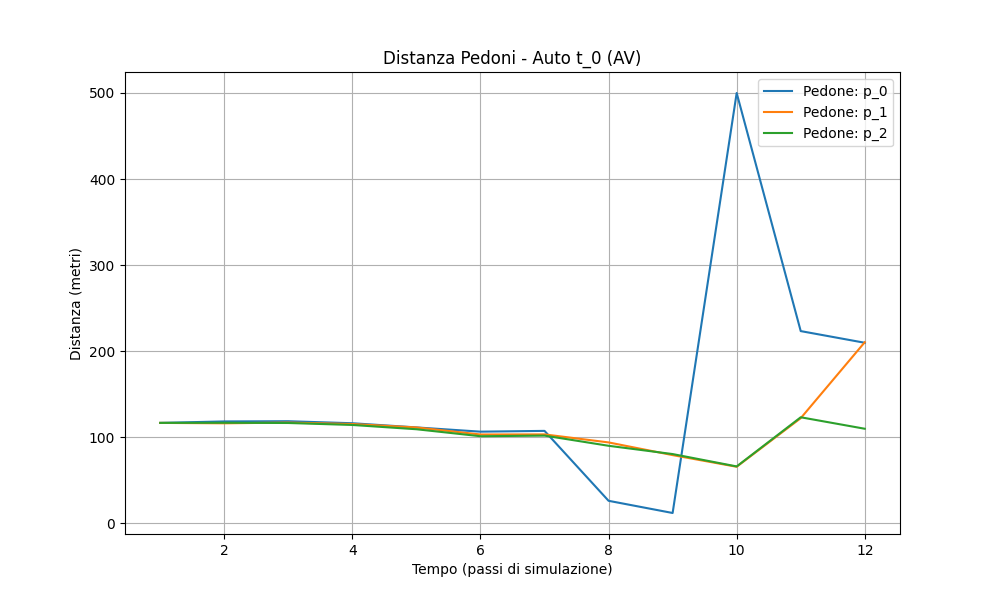
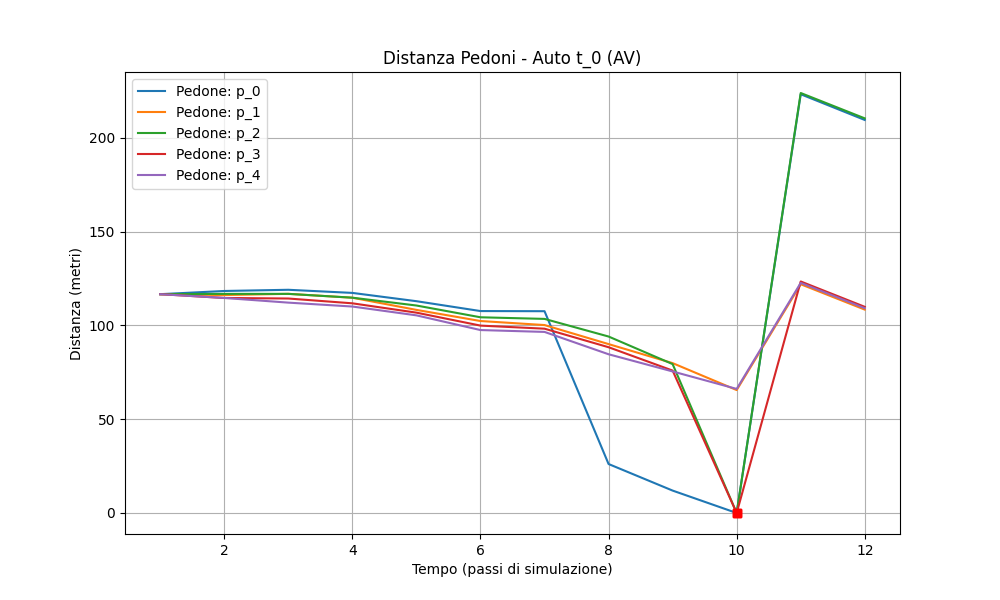
fixed comma underflow for distance

diff --git a/sumo_simulation/sumo_test/test_traciModOnga.py b/sumo_simulation/sumo_test/test_traciModOnga.py
@@ -89,7 +89,7 @@ def plot_distances(distance_data, pair_names, simulation_steps, title, save_dir=
             first_label_added = False
             for idx in close_indices:
                 if not first_label_added:
-                    plt.plot(x_values[idx], distances_extended[idx], 's', color='red', markersize=6, label=f"Distanza < 10m per {person_name}")
+                    plt.plot(x_values[idx], distances_extended[idx], 's', color='red', markersize=6)
                     first_label_added = True
                 else:
                     plt.plot(x_values[idx], distances_extended[idx], 's', color='red', markersize=6)
@@ -174,7 +174,7 @@ def defineScenario(dbase, vehicleID):
     return dbase[vehicleID]['nPedestrian']
 
 
-def calculate_and_store_distance(vehicle_id, person_id, step):
+def calculate_and_store_distance2(vehicle_id, person_id, step):
     """
     Calcola la distanza tra un veicolo e un pedone, la memorizza
     e memorizza un flag se la distanza è inferiore a 10 metri.
@@ -212,6 +212,51 @@ def calculate_and_store_distance(vehicle_id, person_id, step):
         pass # Ignora errori se veicolo/pedone non è più presente
 
 
+def calculate_and_store_distance(vehicle_id, person_id, step):
+    """
+    Calcola la distanza tra un veicolo e un pedone, la memorizza
+    e memorizza un flag se la distanza è inferiore a 10 metri.
+    Gestisce valori di distanza estremamente grandi impostandoli a 0.
+    """
+    global distance_data_t0, distance_data_t1, pair_names, simulation_steps_unique
+
+    try:
+        posV = traci.vehicle.getPosition(vehicle_id)
+        posP = traci.person.getPosition(person_id)
+        distance = traci.simulation.getDistance2D(posV[0], posV[1], posP[0], posP[1], isDriving=True)
+
+        # Controlla se la distanza è un valore estremamente grande (simile a infinito)
+        # o se è maggiore di una soglia ragionevole (es. 1000000000000.0)
+        # Se lo è, impostala a 0 come richiesto.
+        if distance > 1e15 or np.isinf(distance): # Using 1e15 as a very large number threshold
+            distance = 0.0 # Set to 0 if the distance is extremely large or infinite
+
+        is_close = distance < 10.0 # Flag per distanza inferiore a 10 metri
+
+        pair_key = f"{vehicle_id}-{person_id}"
+        if pair_key not in pair_names:
+            pair_names[pair_key] = (vehicle_id, person_id)
+
+        if vehicle_id == "t_0":
+            if pair_key not in distance_data_t0:
+                distance_data_t0[pair_key] = []
+            distance_data_t0[pair_key].append((distance, is_close))
+            # DEBUG: Stampa quando un dato di distanza per t_0 viene aggiunto
+            print(f"DEBUG: Distanza per t_0 e {person_id} al passo {step}: {distance:.2f}m (Vicino: {is_close})")
+        elif vehicle_id == "t_1":
+            if pair_key not in distance_data_t1:
+                distance_data_t1[pair_key] = []
+            distance_data_t1[pair_key].append((distance, is_close))
+
+        # Aggiungi il passo di simulazione solo se non è già presente
+        if step not in simulation_steps_unique:
+            simulation_steps_unique.append(step)
+            simulation_steps_unique.sort() # Mantiene i passi ordinati
+
+    except traci.exceptions.TraCIException as e:
+        # print(f"Errore TraCI durante il calcolo della distanza: {e}") # Debugging
+        pass # Ignora errori se veicolo/pedone non è più presente
+    
 def modify_pedestrian_routes(route_file, num_pedestrians):
     """Modifica il file di route dei pedoni in base al numero specificato."""
     try:
